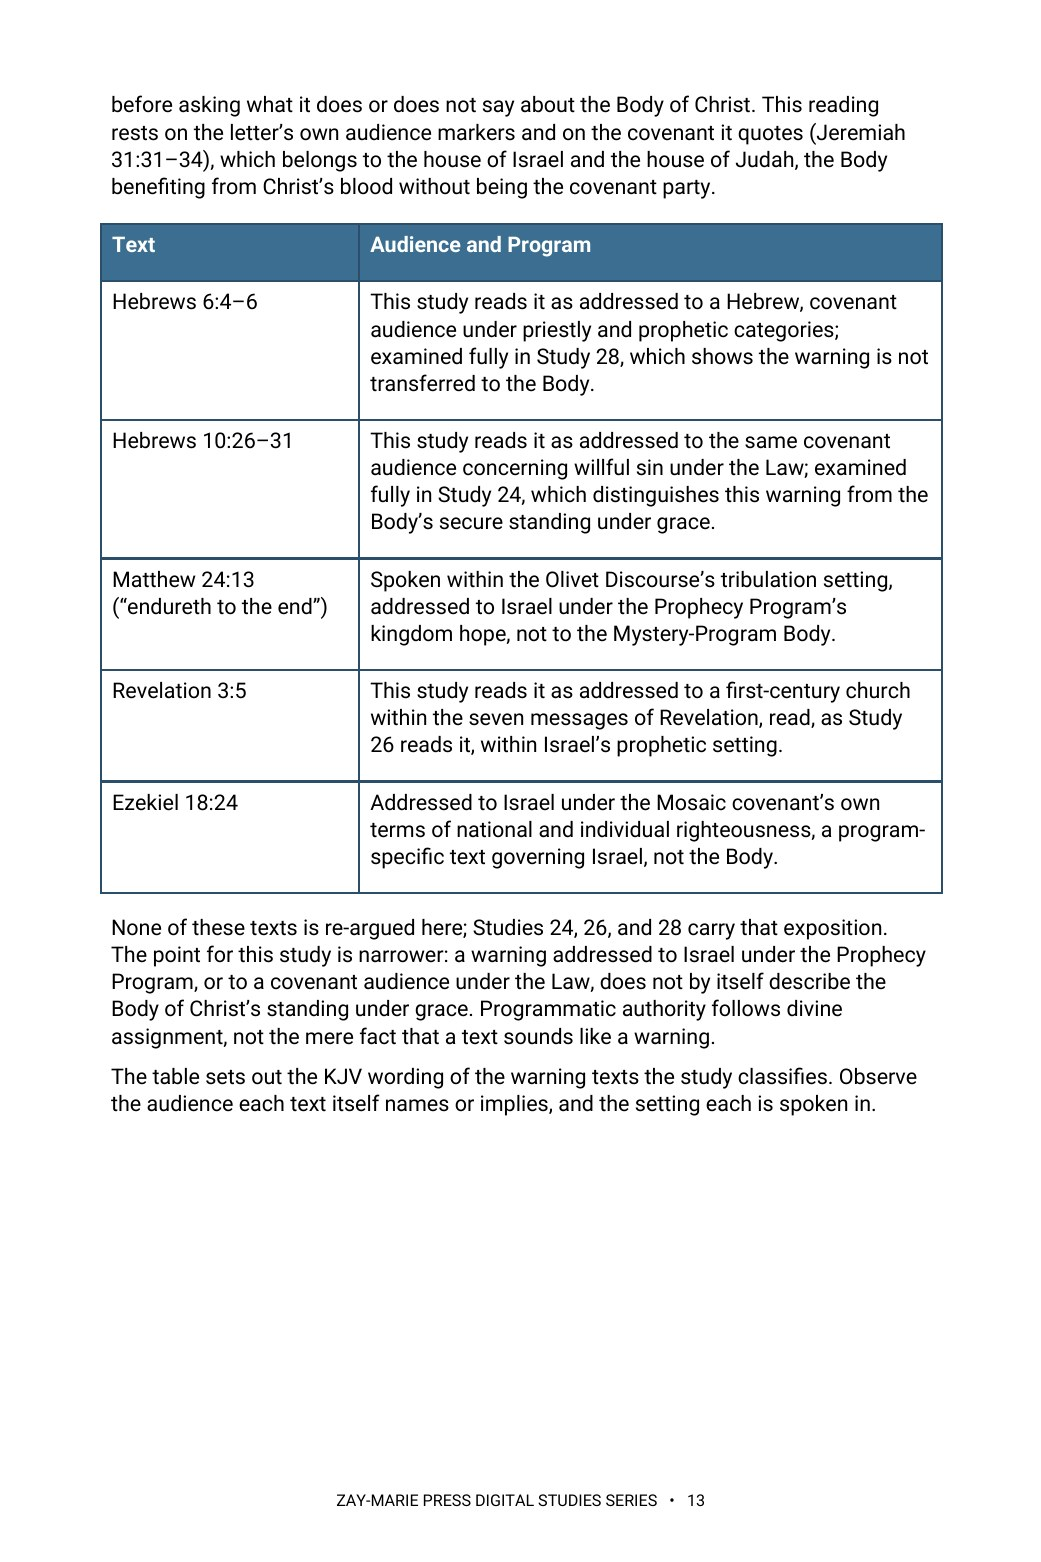
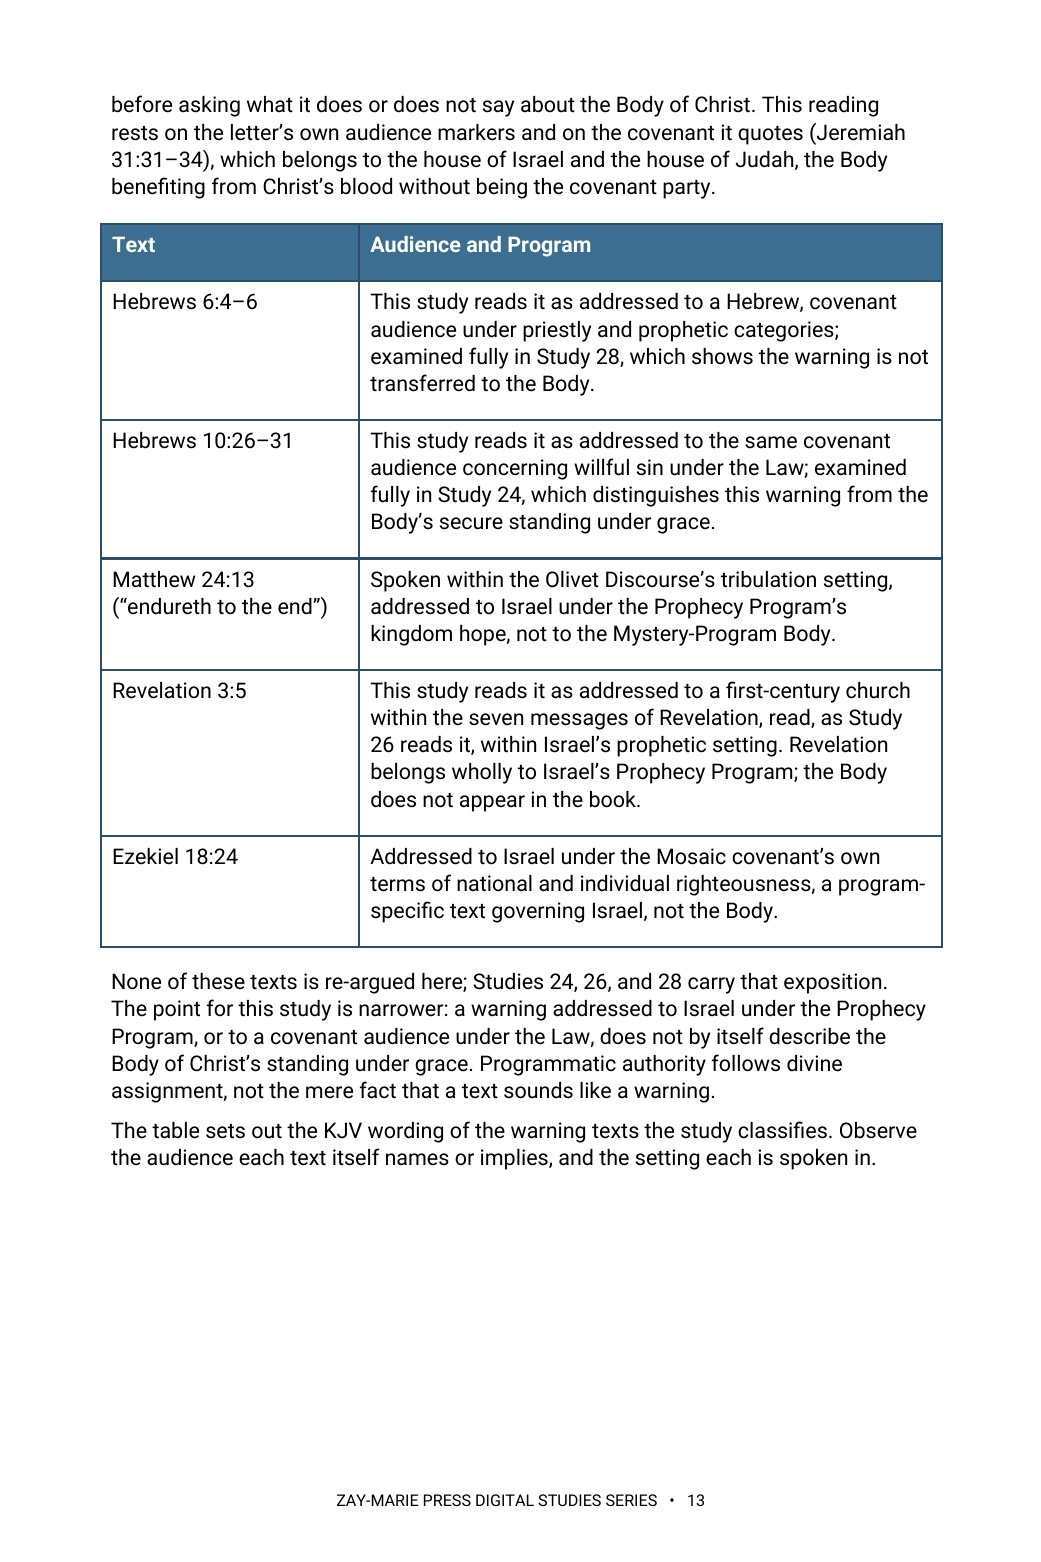
Study 46: restore Rev 3:5 row statement, re-render preview 13; trackers v1.65/v1.159
Claude-Session: https://claude.ai/code/session_01KcENxFzE91mCRyTPWhcwnE

Changed region(s): [[0.0922, 0.4609, 0.8915, 0.7682], [0.0922, 0.4917, 0.2459, 0.5531]]

diff --git a/CLAUDE.md b/CLAUDE.md
@@ -23,7 +23,7 @@ These are kept in the repo at `controlling-documents/` and are the current versi
 - As of v1.50 (publisher directive, 2026-10-03), the **What You Will Learn in This Study** section is always bulleted, never set as running paragraphs, written into this file in the same pass (Master Standard Section 3 item 4, Section 6 structure line, Section 22): a list of bullet points, each describing one process, textual marker or interpretive discipline the reader will practice (Section 17 still governs what they may say); at most one short lead-in line may stand above the bullets (for example, “By the end of this study, you should be able to:”); the Study Goal callout and the Study Outline keep their own forms. It governs every new study and every study rebuilt or retrofitted from now on; earlier studies take it when reopened or when the publisher directs. In every study check (Step 1), report whether the section is bulleted. First applied to Study 43.
 **`controlling-documents/Digital_Studies_Relationship_Map_v1.39.md`** — records each study's distinct subject, its related studies, the eight priced six-study collections, the Paul's Missionary Journeys cross-reference map, and the five primary catalog categories (currently version 1.39, covers Studies 1–71; update it as new studies publish, bump the version number, rename the file to match, and log the change in its own version-history table — mirroring the Master Standard's `_vX.Y` filename convention). Check a proposed topic against it before recommending or writing a new study. (2026-09-28: the file was missing from this repo despite this note referencing it; replaced from the publisher's copy and bumped v1.15→v1.25 in the same pass. If this note ever again points to a version not present under `controlling-documents/`, ask the publisher for a copy rather than proceeding without the check.)
 - **`controlling-documents/Digital_Studies_Category_Standard_v1.1.md`** — FINAL and binding (publisher, 2026-10-01): the rules for the five primary catalog categories (Foundations, Israel & Prophecy, Body of Christ, Passages, Doctrinal Themes), the ordered decision procedure for new studies, the precedents, all 71 fixed assignments, and the cover-label form for each category. Read it before placing any card or cover label. Do not ask the publisher where a study belongs; apply the procedure and state the result. Only the publisher changes a ruling; then bump this Standard's version and filename, re-letter the cover, and update the Relationship Map.
-- **`controlling-documents/Doctrinal_Upgrade_Retrofit_Plan_v1.64.md`** — working tracker for retrofitting Studies 1–59 to the 2026-10-02 doctrinal upgrade (Framework/PAM v1.1, Master Standard v1.40, Rules 7–17): withdrawn-wording search keys, impact tiers, waves and the per-study method. Read it before continuing the retrofit in any session; update status, bump the version and rename the file as work proceeds.
+- **`controlling-documents/Doctrinal_Upgrade_Retrofit_Plan_v1.65.md`** — working tracker for retrofitting Studies 1–59 to the 2026-10-02 doctrinal upgrade (Framework/PAM v1.1, Master Standard v1.40, Rules 7–17): withdrawn-wording search keys, impact tiers, waves and the per-study method. Read it before continuing the retrofit in any session; update status, bump the version and rename the file as work proceeds.
 - **`controlling-documents/Doctrinal_Packet_Standard_v0.3.md`** — Doctrinal Packet Standard (DRAFT; §7 approved). Governs the separate Doctrinal Packets product strand (5-page interpretive PDFs per Bible book — a print-friendly cover as page 1 plus 4 content pages, $2.99, KJV, pilot: Genesis, live at `packet-genesis.html`, hub `doctrinal-packets.html`; site pages say "5 Pages", cover styles live in `packets.css`, Old Testament blue and New Testament soft pale green, hub listed in Bible order). **Preview rule (publisher directive, 2026-09-29, packets only):** previews show about one page's worth in two cropped views (top of page 1 through the anchor texts; the chart section) — never the exegesis, architecture, Mystery contrast, logic chain, outline, or closing. Master Standard §16/§17 still govern Digital Studies. Bump the version and rename the file as the Standard is finalized.
 - **`controlling-documents/Preview_Page_Spoiler_Retrofit_Audit_v1.4.md`** — working tracker for the Studies 1–60 preview-page conclusion-spoiler retrofit (see the section below). Read it before continuing that audit in any session; update its status fields and changelog, bump the version, and rename the file to match as the audit proceeds — same `_vX.Y` convention as the other controlling documents. As of v1.1, the website-side half was DONE: all 60 studies' "What You'll Study" text was judged against the rule (methodology documented in the file) and 22 points across 11 studies were rewritten and pushed; an unrelated Study 22 content bug (Study 21's content had leaked into it) was also found and fixed. As of v1.2, the publisher supplied Studies 1–60's interior production PDFs and the interior-PDF half was also surveyed (read-only): 10 studies (37, 41, 45, 47, 48, 49, 51, 52, 53, 54) were found to have at least one interior "What You Will Learn" violation, 50 studies were confirmed compliant, and the orphaned `assets/study-45-sanctification-under-grace.docx` (removed from the repo per the publisher in v1.0) was confirmed word-for-word identical to Study 45's actual production interior PDF content. As of v1.3, the publisher supplied editable DOCX sources for all 10 violating studies; all 15 violating points were rewritten and approved, delivered as corrected final PDFs, and — along the way — a second defect was found and fixed (Studies 47 and 48's source DOCX still had an unintegrated cover placeholder despite both being long-published live with real covers; fixed by inserting the existing approved cover art). The website's "What You Will Learn" preview image (`study-NN-page-3.jpg`) was regenerated from the corrected content for all 10 studies and pushed to `main` (commit `cea1859`), verified against a fresh clone. **The website side of this audit is now fully compliant for all 60 studies.** Outstanding: the publisher's purchasable interior PDF files themselves have corrected versions delivered, but distribution to existing purchasers was decided by the publisher on 2026-09-29: silent swap of the files behind the existing downloads, no reissue notice (recorded in the v1.4 changelog entry; the product files are not in this repo).
 

diff --git a/controlling-documents/Doctrinal_Upgrade_Retrofit_Plan_v1.65.md b/controlling-documents/Doctrinal_Upgrade_Retrofit_Plan_v1.65.md
@@ -157,3 +157,4 @@ Working tracker for correcting published studies to the Framework/PAM v1.1, Mast
 - v1.62 (2026-10-03): Publisher approved the two open items on Studies 59 and 60 as built: the anchor lines stay (Study 59: "This reading of 1 Timothy, 1 Thessalonians, 2 Timothy and Colossians rests on each letter’s own audience markers and setting."; Study 60: "This reading of 1 Thessalonians and Colossians rests on each letter’s own audience markers and setting."), and the white space at the foot of Study 59 page 17 (keep-with-next on the Scripture-Tracing heading, lead-in and table) is accepted. Both items closed; no file changes.
 - v1.63 (2026-10-03): Study 12 rebuilt to the current page geometry and 10 pt body (it was still on 432 × 649 pt at 9 pt) on the publisher’s two approvals; website step done. 15 pages (was 14). Changes: What You Will Learn gets the lead-in "By the end of this study, you should be able to explain:" and the two-sentence purpose paragraph above the bullets is removed (the Introduction carries the same points); last bullet now "the national judicial suspension of Israel’s Prophecy Program at Acts 28"; KJV table added at Scripture-Tracing (Jer. 31:31, Jer. 31:33, Ezek. 36:26–27, Luke 22:20, each checked against the KJV); the last Final Synthesis paragraph kept with the imprint (layout only) so the imprint is not alone. `site.js` 12:15; page-count text 14 → 15; previews 2, 3 and 5 re-rendered at 1041×1562 (same pages, new content positions). Remaining Wave 5 geometry/10 pt resets: see the studies still at 9 pt or older geometry.
 - v1.64 (2026-10-03): Study 46 rebuilt at 10 pt (was 9 pt; Roboto, current page) from the publisher’s Roboto DOCX, website step done on his approvals. 20 pages (was 16): the old file had 9 pt body and 8.5 pt table text; 14 tables at 10 pt with 10 pt table spacing lengthen it. Withdrawn "The Framework does not assign …" lines converted to reader-facing forms (Romans 8:28–39, 1 Cor 15:1–2, Gal 5:1–6, 2 Timothy, Colossians, Hebrews with the covenant-it-quotes sentence); the Revelation "does not assign" sentence removed (Revelation is no longer an unassigned book); "controlling framework" reworded. What You Will Learn: three-sentence paragraph replaced by the lead-in "By the end of this study, you should be able to:" (Introduction carries the question). `site.js` 46:20; page-count text 16→20; previews 2, 3 and 13 (third moved from page 11 to 13: the objection-text table; `study-46-page-11.jpg` removed). Files carry "Roboto" in the name from now on at the publisher’s request. Publisher ruling recorded: Matthew 5:17–20 under the Gospel of the Kingdom, addressed to Israel, is a settled placement (Study 62 gets no Matthew audience-markers line). "finished work of Christ" (6 hits, Body-only) held for the publisher’s reading. Next: 10 pt resets for 52, 53, 55, 56, 57, 58 (DOCX on hand); 43 and 54 need DOCX; 42, 44, 45, 47, 48, 49, 50, 51 need Roboto finals or a rebuild from the older masters.
+- v1.65 (2026-10-03): IMPORTANT FINDING: the "FINAL" DOCX files the publisher re-sent in this session for Studies 46 and 52–58 predate the 2026-10-02 retrofits (they still carry the "The Framework does not assign …" lines and, for 52, the withdrawn Galatians 3 wording). The retrofit edits recorded in the plan rows are therefore re-applied from the plan rows each time a study is rebuilt from these sources, and checked against the row. Study 46: the Rev 3:5 row statement was missing from the rebuilt copy and is restored ("Revelation belongs wholly to Israel’s Prophecy Program; the Body does not appear in the book"); the page-13 preview re-rendered; 20 pages unchanged.

diff --git a/controlling-documents/Digital_Studies_PAM_Audit_v1.159.md b/controlling-documents/Digital_Studies_PAM_Audit_v1.159.md
@@ -388,3 +388,4 @@ Study 15 PDF not yet supplied. Typography: none of Studies 2, 3, 6, 8 is in EB G
 - v1.156 (2026-10-03): Studies 59 and 60 anchor lines and Study 59 page 17 spacing approved as built (see Retrofit Plan v1.62).
 - v1.157 (2026-10-03): Study 12 rebuilt to the current geometry and published at 15 pages (see Retrofit Plan v1.63).
 - v1.158 (2026-10-03): Study 46 rebuilt at 10 pt, 20 pages (see Retrofit Plan v1.64).
+- v1.159 (2026-10-03): Study 46 Rev 3:5 row restored; plan finding on pre-retrofit sources (see Retrofit Plan v1.65).
